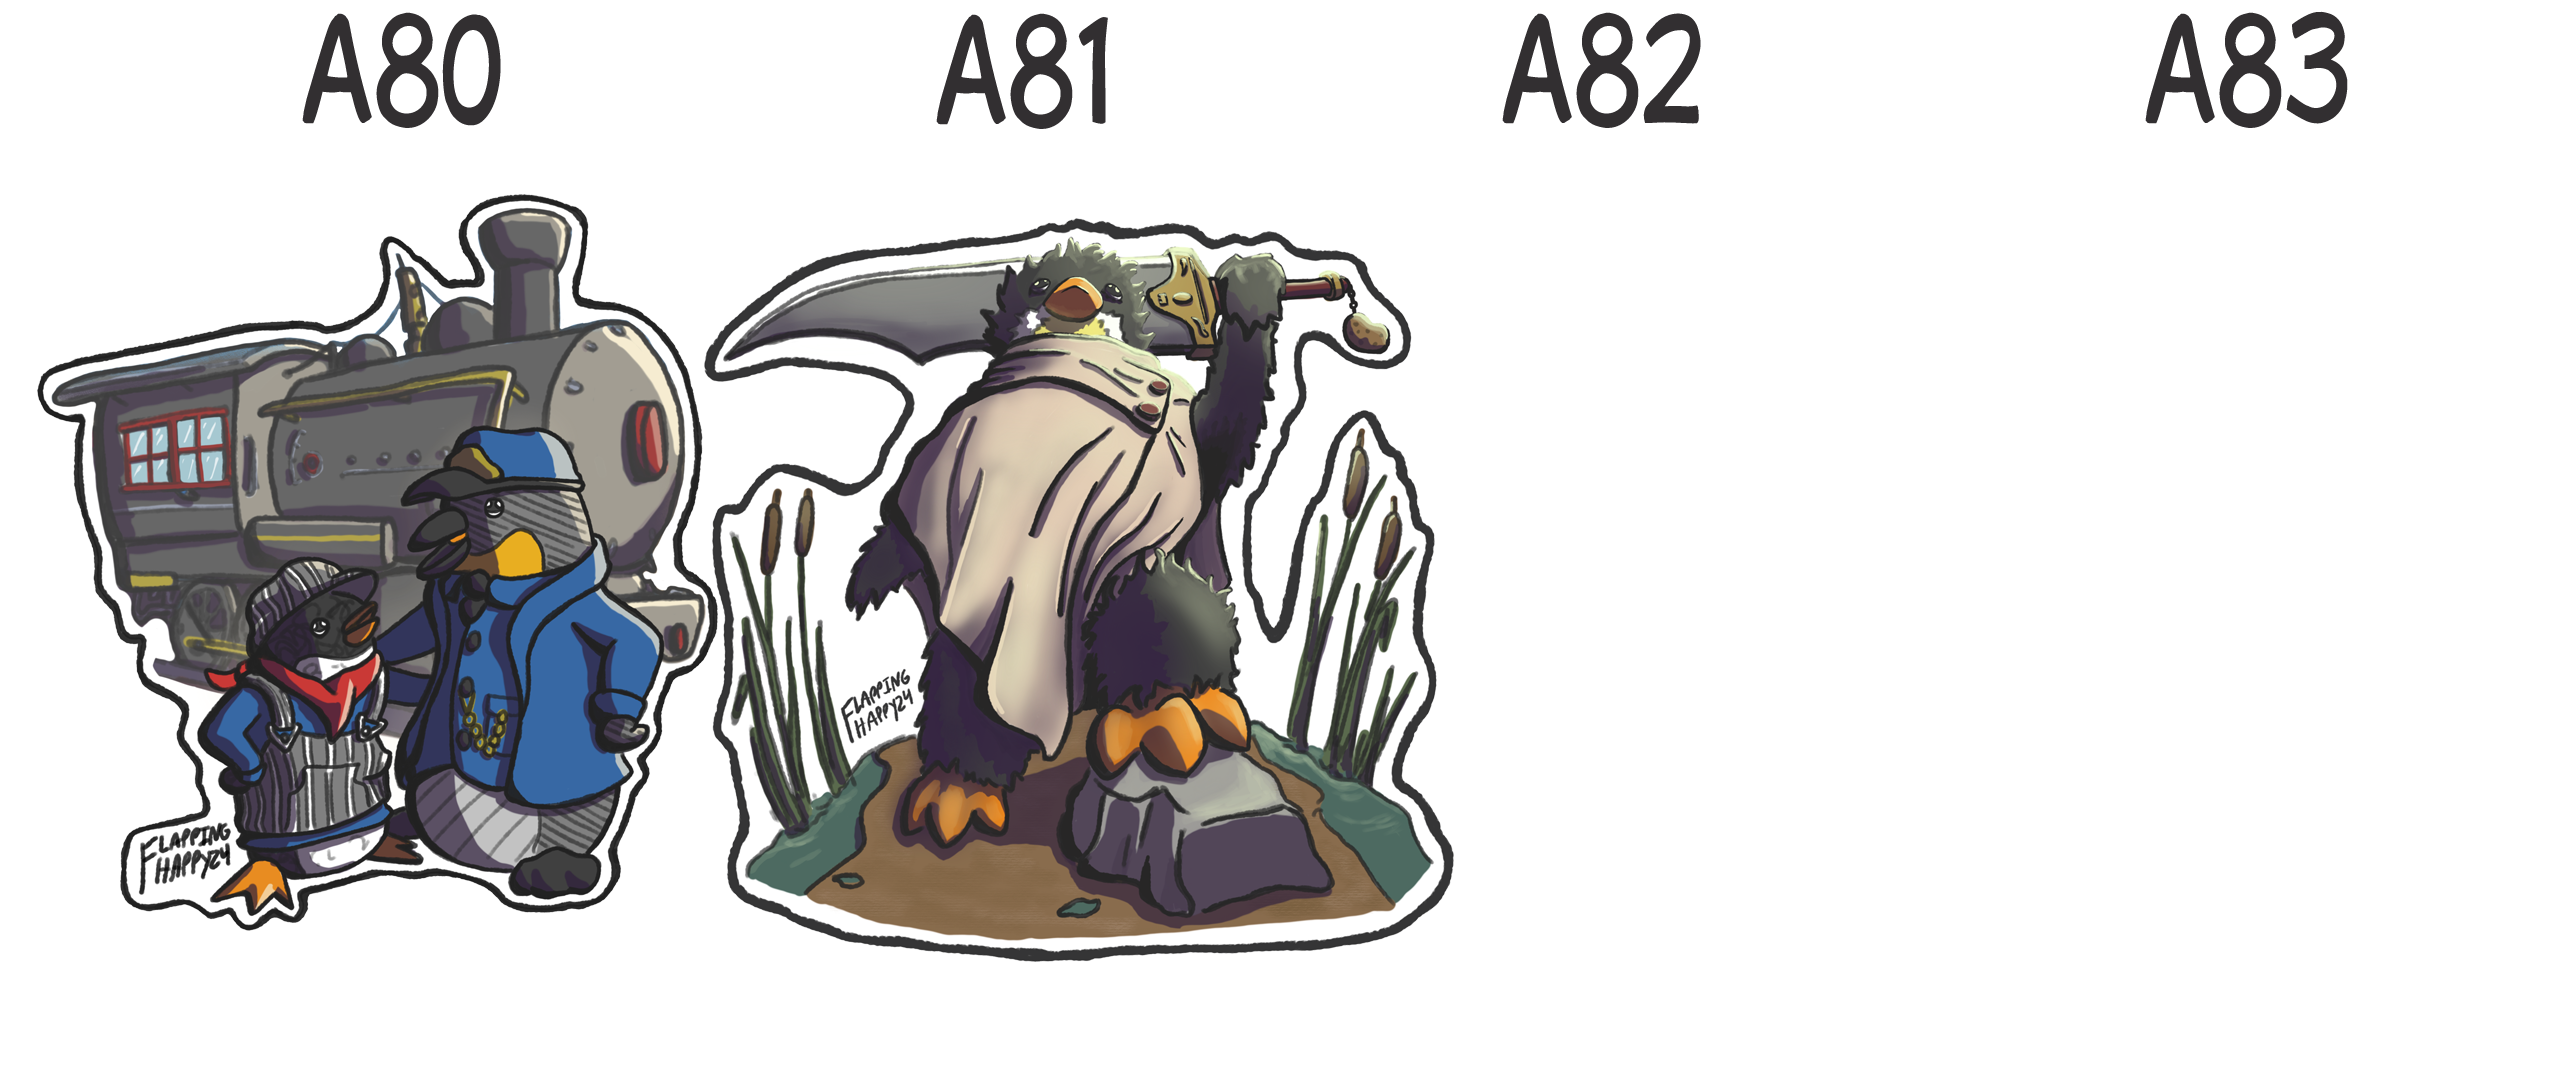
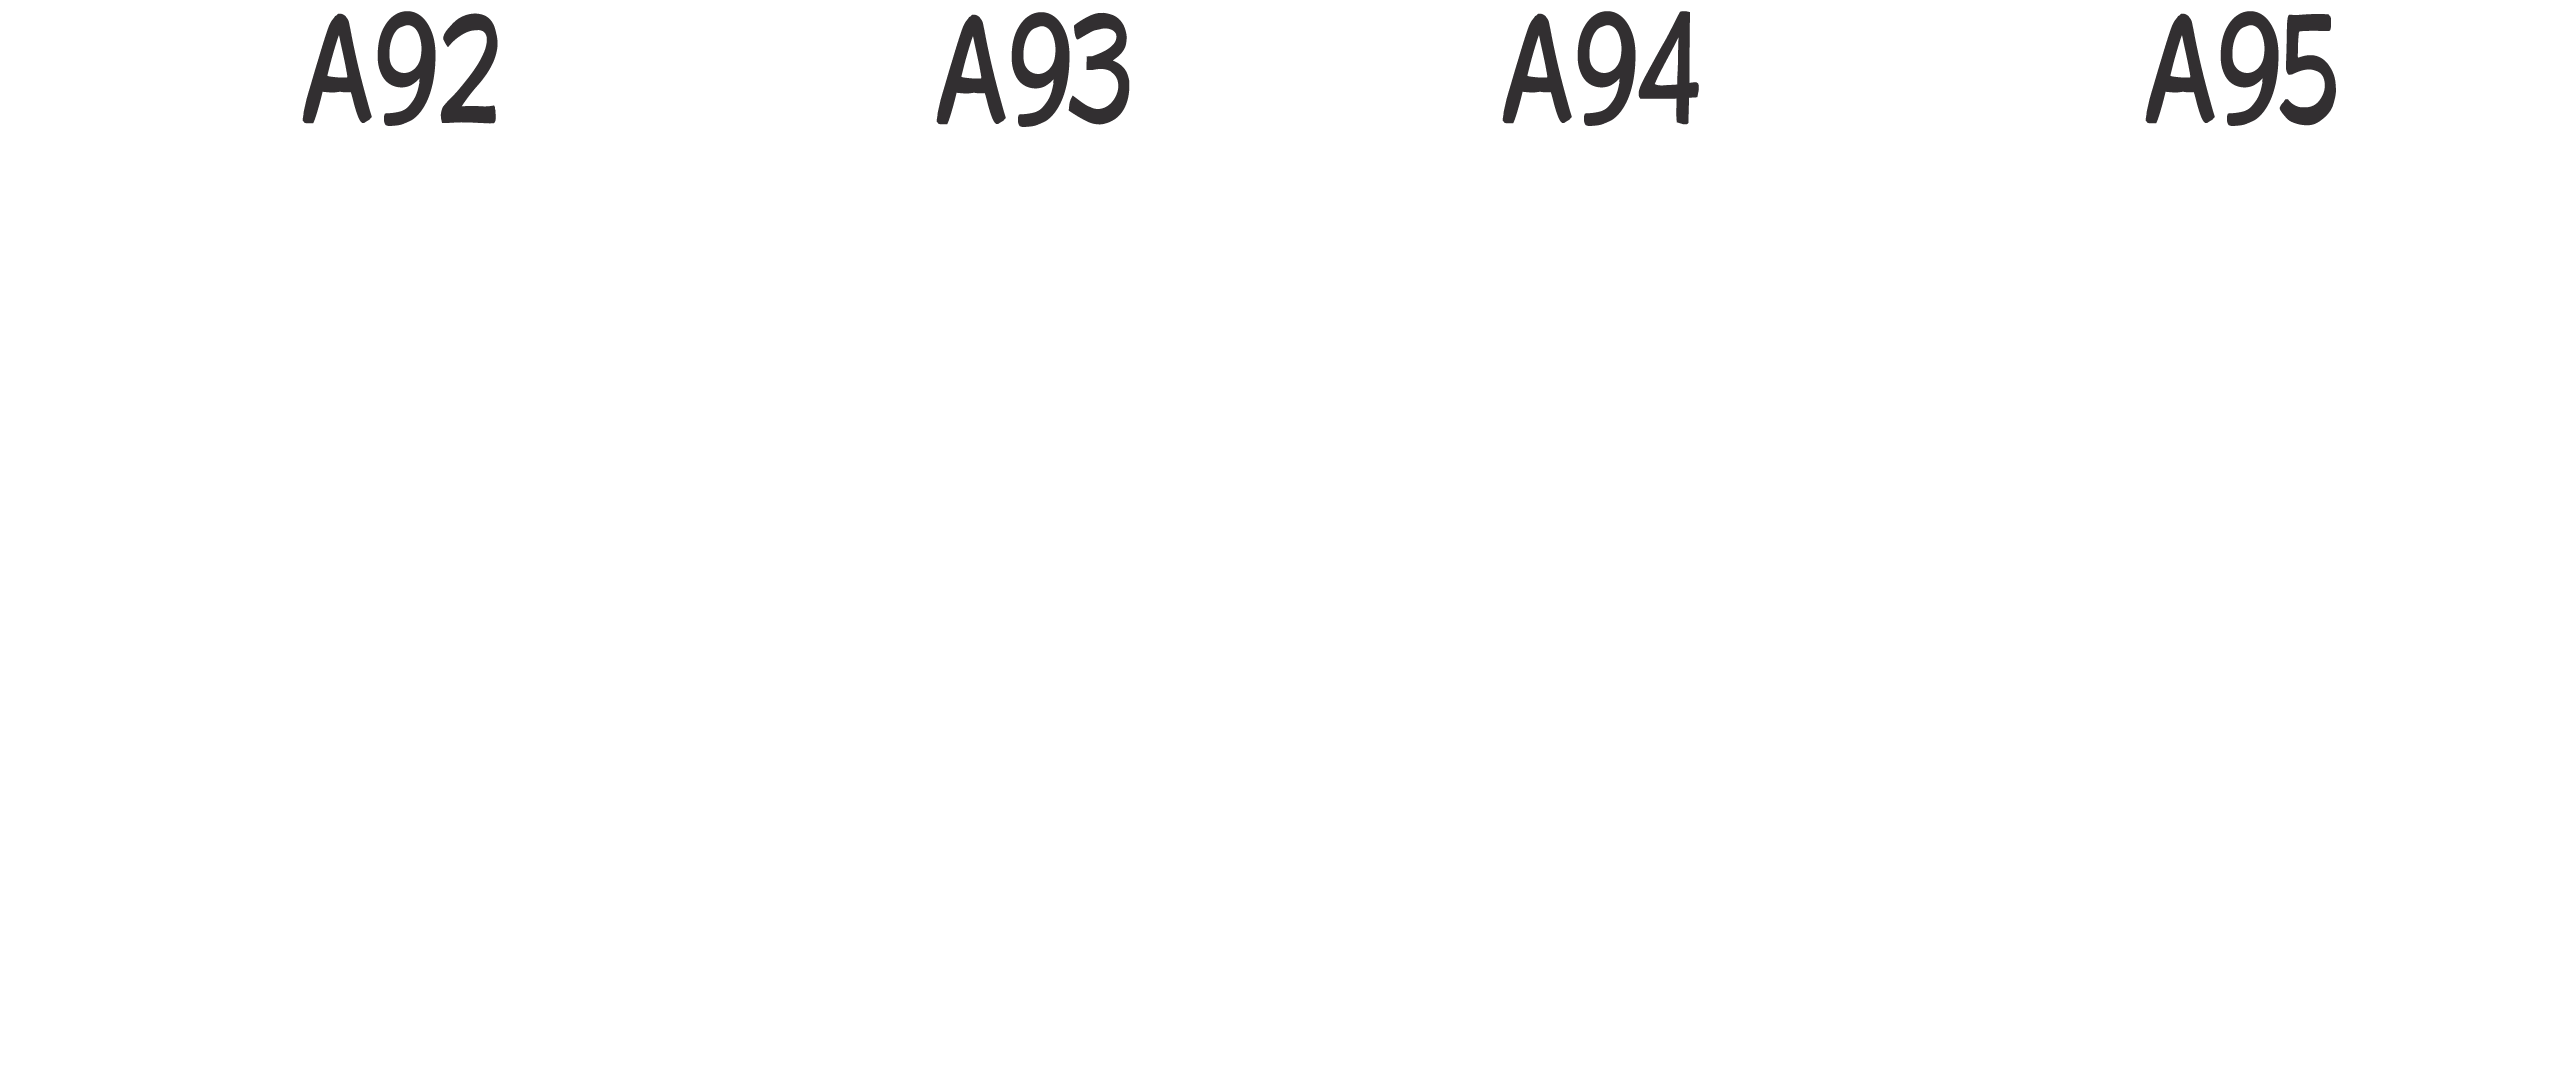
Add files via upload

diff --git a/shop.html b/shop.html
@@ -52,8 +52,9 @@
 		<a href="#top"><button id="topCollapseBtn" name="ArtNumbers" class="btn"  value="ArtNumbCollapse">
 			Collapse Art Numbers
 		</button></a>
-			<!-- <img src="ArtNumBGNew.png" alt="artNum">
-			<img src="ArtNumBGNew2.png" alt="artNum"> -->
+			<!-- -->
+			<img src="ArtNumBGNew.png" alt="artNum">
+			<img src="ArtNumBGNew2.png" alt="artNum"> 
 			<img src="ArtNumBG8.png" alt="artNum">
 			<img src="ArtNumBG7.png" alt="artNum">
 			<img src="ArtNumBG5.png" alt="artNum">
@@ -177,6 +178,11 @@
 						<option value="A083">A83</option>
 						<option value="A084">A84</option>
 						<option value="A085">A85</option>
+						<option value="A086">A86</option>
+						<option value="A087">A87</option>
+						<option value="A088">A88</option>
+						<option value="A089">A89</option>
+						<option value="A090">A90</option>
 						
 					</select>
 					<br><br>
@@ -341,6 +347,11 @@
 						<option value="A083">A83</option>
 						<option value="A084">A84</option>
 						<option value="A085">A85</option>
+						<option value="A086">A86</option>
+						<option value="A087">A87</option>
+						<option value="A088">A88</option>
+						<option value="A089">A89</option>
+						<option value="A090">A90</option>
 						<option value="S001">S1</option>
 						<option value="S002">S2</option>
 						<option value="S003">S3</option>
@@ -486,6 +497,11 @@
 						<option value="A083">A83</option>
 						<option value="A084">A84</option>
 						<option value="A085">A85</option>
+						<option value="A086">A86</option>
+						<option value="A087">A87</option>
+						<option value="A088">A88</option>
+						<option value="A089">A89</option>
+						<option value="A090">A90</option>
 						
 					</select>
 					<br><br>
